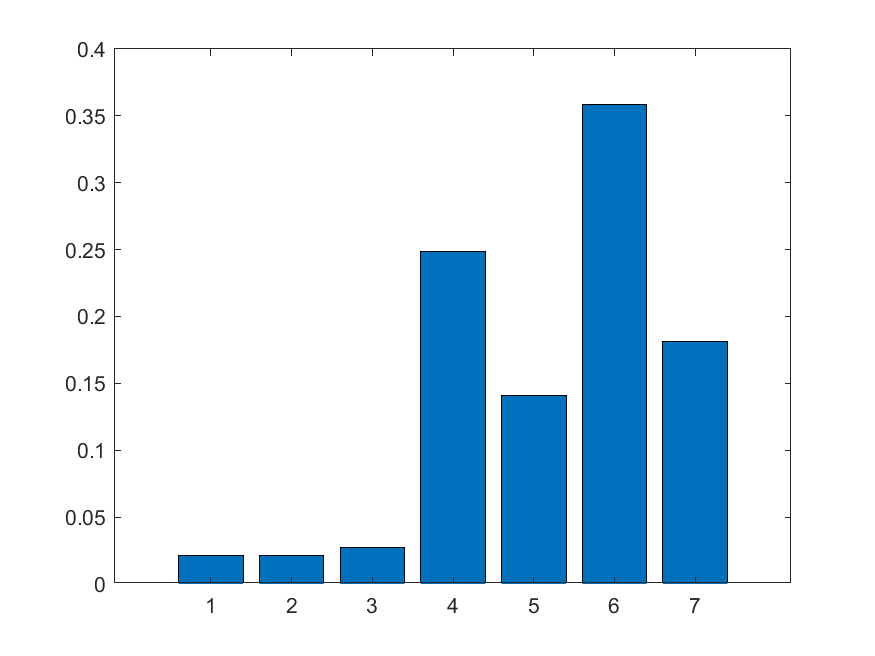
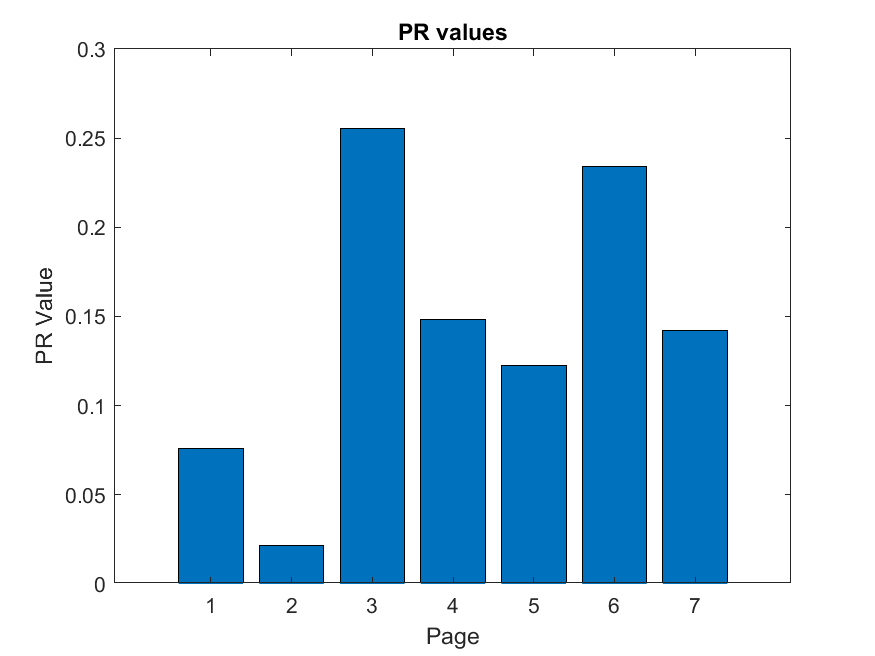
Second taks fully done

diff --git a/Lab2/Zad2/page_rank.m b/Lab2/Zad2/page_rank.m
@@ -1,17 +1,17 @@
-function [Edges, I, B, A, b, r] = page_rank()
+function [index_number, Edges, I, B, A, b, r] = page_rank()
 
-
+    index_number = 197749;
     n = 7;
     d = 0.85;
 
-    Edges = [1,1,6,7,6,4,4,5,5,2,2,2,3,3,3;
-             6,4,7,6,4,6,5,4,6,4,3,5,5,6,7];
+    Edges = [1,1,2,7,2,4,4,5,5,6,6,6,3,3,3;
+             2,4,7,2,4,2,5,4,2,4,3,5,5,2,7];
     
     I = speye(n);
     row_indices = Edges(2,:);
     col_indices = Edges(1,:);
     B = sparse(row_indices, col_indices, 1, n, n);
-    L = sum(B).;
+    L = sum(B).';
     A = spdiags(1./L, 0, n, n);
     b = zeros(n,1) + (1-d)/n;
     M = sparse(I - d*B*A);

diff --git a/Lab2/Zad2/page_rank2.m b/Lab2/Zad2/page_rank2.m
@@ -1,0 +1,23 @@
+function [index_number, Edges, I, B, A, b, r] = page_rank()
+
+    index_number = 197749;
+    N = 7;
+    L1 = (1+mod(9,7));
+Edges = [1,1,6,7,6,4,4,5,5,2,2,2,3,3,3,3, 1,2,4,5,6,7;
+         6,4,7,6,4,6,5,4,6,4,3,5,5,6,7,1, 3,3,3,3,3,3];
+    
+    d = 0.85;
+    I = speye(N);
+    B = sparse(Edges(2,:), Edges(1,:), 1, N, N);
+    L = sum(B)';
+    A = spdiags(1./L, 0, N, N);
+    b = repelem((1-d)/N, N)';
+    M = I - d*B*A;
+    r = M\b;
+    
+    bar(r)
+    xlabel("Page")
+    ylabel("PR Value")
+    title("PR values")
+    saveas(gcf,'zad2.1.png');
+end
